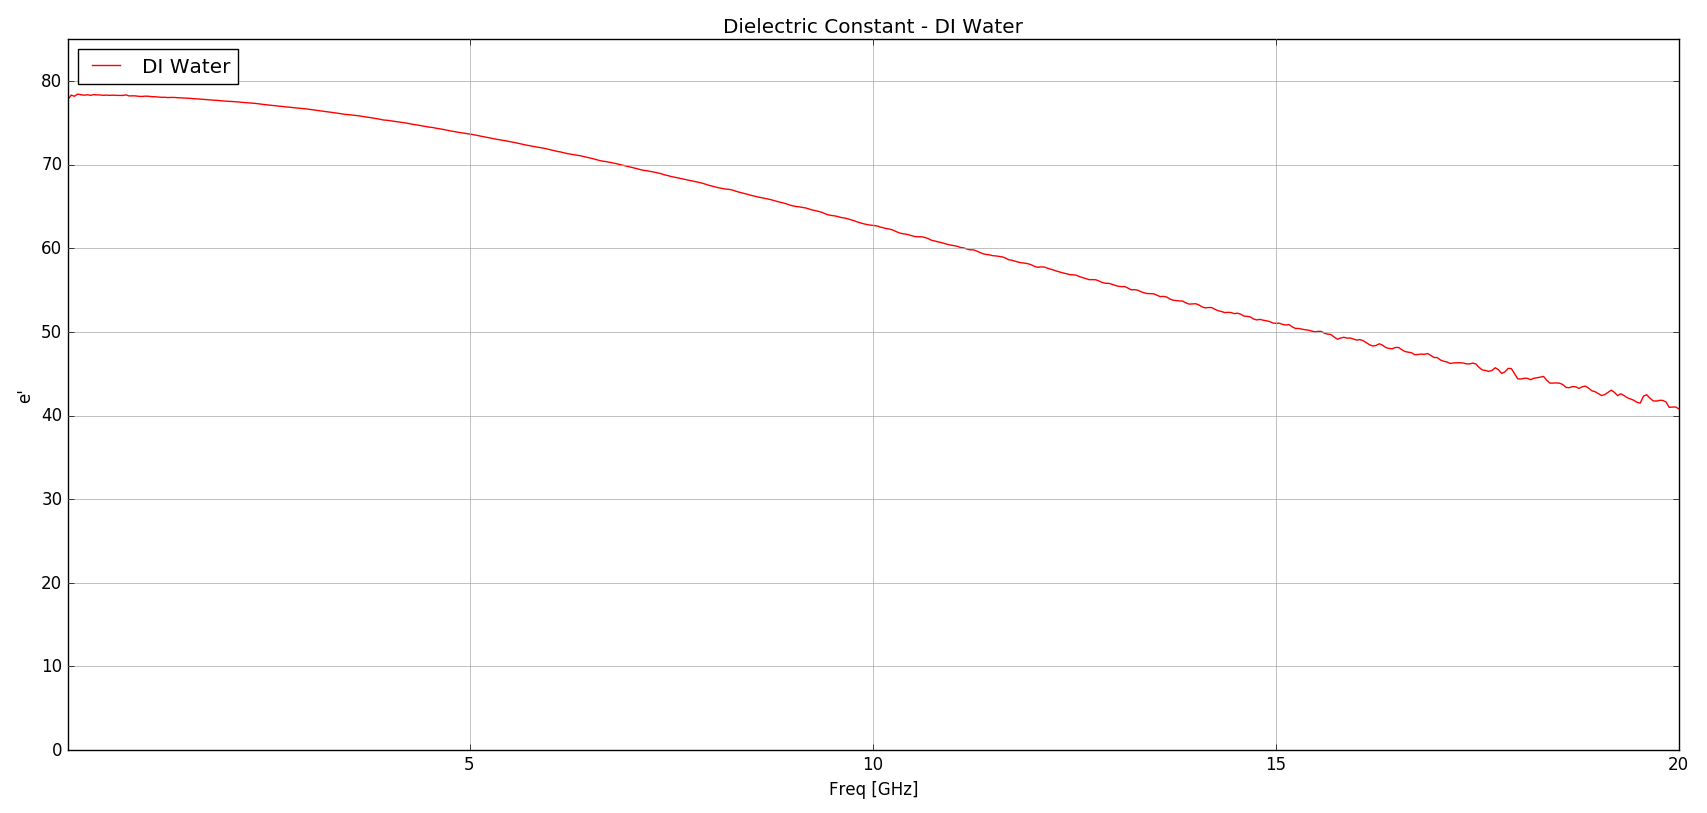
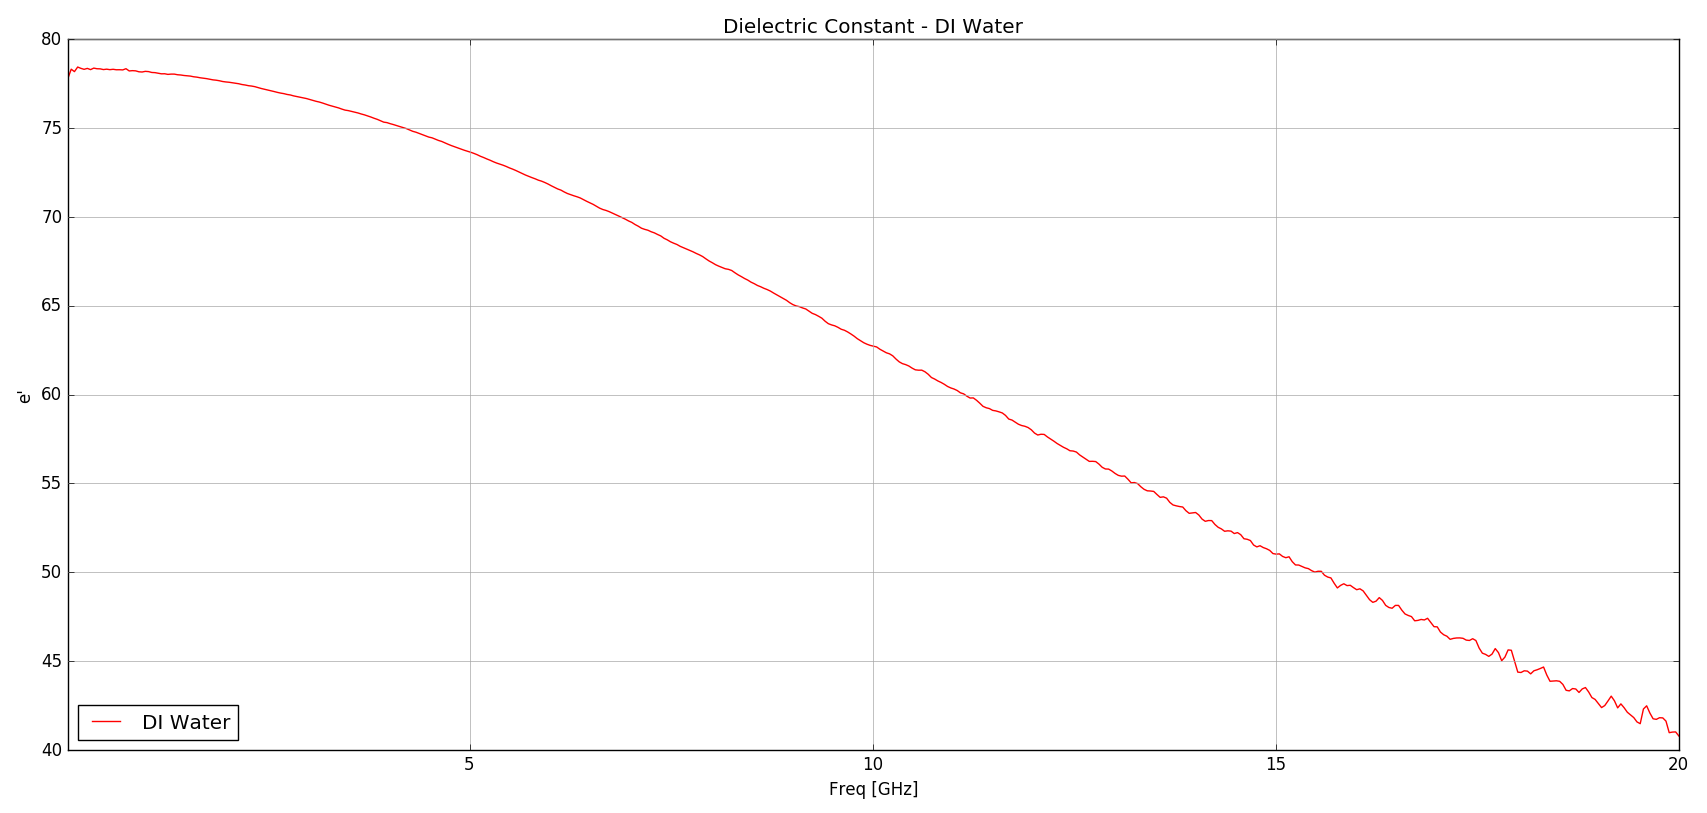
upload

diff --git a/Students/abhaysanand/Lab10/dev/Lab10Results.py b/Students/abhaysanand/Lab10/dev/Lab10Results.py
@@ -92,7 +92,7 @@ ax1.plot(freq, Pine_sol, '-c', label="Pine Sol")
 ax1.plot(freq, Simple_Green, '--c', label="Simple Green")
 ax1.plot(freq, Acetone, '-g', label="Acetone")
 ax1.set_xlim(min(freq), max(freq))  # set x-axis limits
-ax1.set_ylim(0, 85)  # set x-axis limits
+ax1.set_ylim(0, 80)  # set x-axis limits
 ax1.legend(loc=2)  # add legend at location #4 (bottom-right corner)
 plt.grid(b=True, which='both', color='0.65', linestyle='-')  # add solid grey grid-lines
 plt.title('Dielectric Constant - Liquids')  # add plot title
@@ -105,8 +105,8 @@ plt.figure(2)  # initialize plot2
 ax1 = plt.subplot(111)
 ax1.plot(freq20, DI_water_20MHz_20GHz, '-r', label="DI Water")
 ax1.set_xlim(min(freq20), max(freq20))  # set x-axis limits
-ax1.set_ylim(0, 85)  # set x-axis limits
-ax1.legend(loc=2)  # add legend at location #4 (bottom-right corner)
+ax1.set_ylim(40, 80)  # set x-axis limits
+ax1.legend(loc=3)  # add legend at location #4 (bottom-right corner)
 plt.grid(b=True, which='both', color='0.65', linestyle='-')  # add solid grey grid-lines
 plt.title('Dielectric Constant - DI Water')  # add plot title
 plt.xlabel('Freq [GHz]')  # add x-axis title
